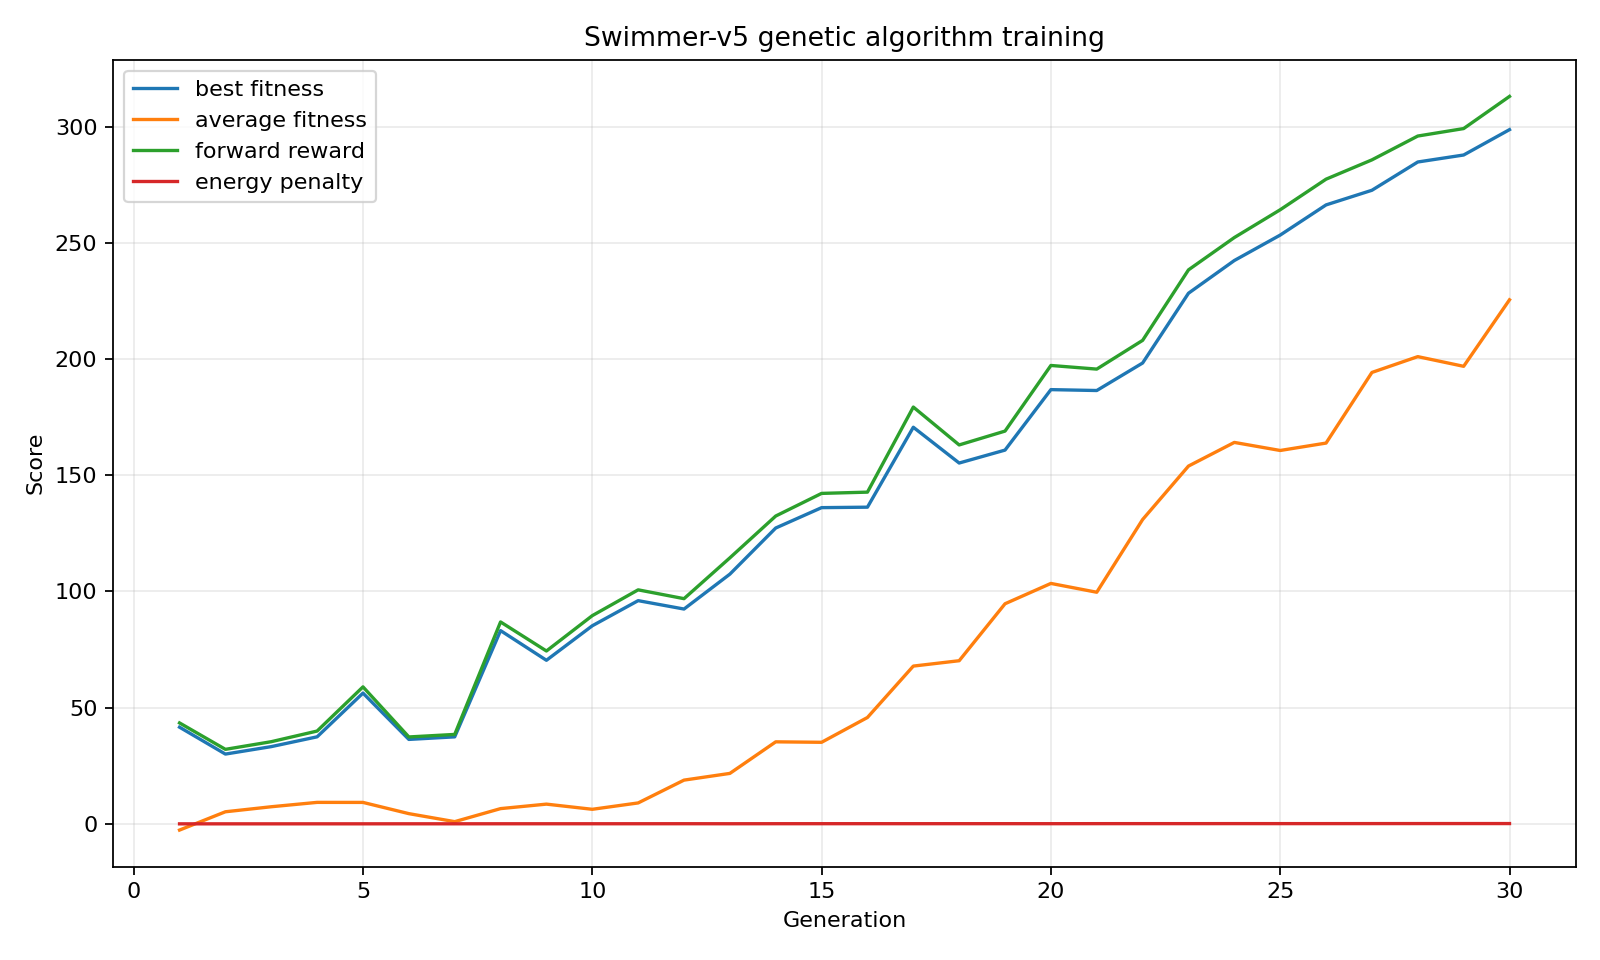
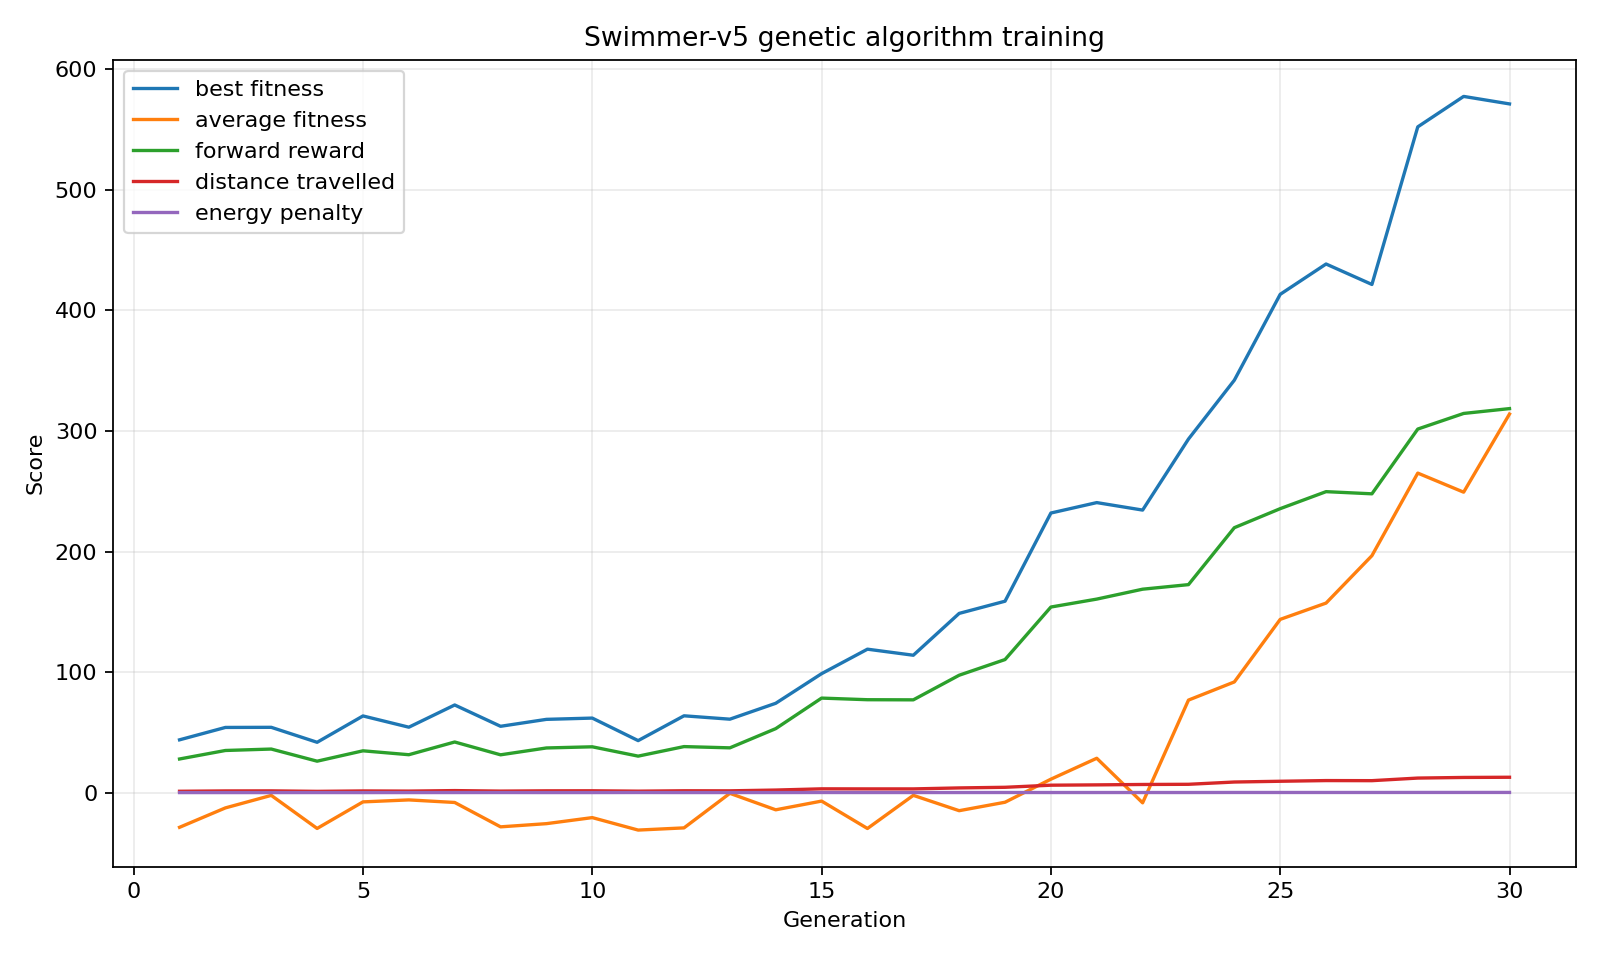
Test to compare with main

diff --git a/swimmer_ga.py b/swimmer_ga.py
@@ -26,6 +26,11 @@ class GAConfig:
     episodes_per_candidate: int = 1
     base_episode_length: int = 200
     curriculum_growth: int = 25
+    forward_reward_weight: float = 3.0
+    distance_reward_weight: float = 2.0
+    energy_penalty_weight: float = 0.15
+    smoothness_penalty_weight: float = 0.05
+    stability_penalty_weight: float = 0.10
     render_best: bool = False
     seed: int | None = None
     output_dir: str = "artifacts"
@@ -47,6 +52,7 @@ class GenomeMLPController(nn.Module):
         self.network = nn.Sequential(*layers)
 
         self.genome_size = sum(parameter.numel() for parameter in self.parameters())
+        self._genome_loaded = False
 
     def random_genome(self, rng: np.random.Generator) -> np.ndarray:
         return rng.normal(0.0, 0.5, size=self.genome_size).astype(np.float32)
@@ -61,9 +67,11 @@ class GenomeMLPController(nn.Module):
                 )
                 parameter.copy_(values)
                 offset += size
+        self._genome_loaded = True
 
-    def act(self, genome: np.ndarray, observation: np.ndarray) -> np.ndarray:
-        self.load_genome(genome)
+    def act(self, observation: np.ndarray) -> np.ndarray:
+        if not self._genome_loaded:
+            raise RuntimeError("Genome not loaded. Call load_genome() before act().")
         observation_tensor = torch.as_tensor(observation, dtype=torch.float32)
         with torch.no_grad():
             action_tensor = torch.tanh(self.network(observation_tensor))
@@ -78,13 +86,29 @@ class EvaluationResult:
     instability_penalty: float
     oscillation_penalty: float
     episode_length: int
+    distance_travelled: float
 
 
 class SwimmerEvaluator:
-    def __init__(self, env_id: str, controller: GenomeMLPController, seed: int | None = None):
+    def __init__(
+        self,
+        env_id: str,
+        controller: GenomeMLPController,
+        seed: int | None = None,
+        forward_reward_weight: float = 3.0,
+        distance_reward_weight: float = 2.0,
+        energy_penalty_weight: float = 0.15,
+        smoothness_penalty_weight: float = 0.05,
+        stability_penalty_weight: float = 0.10,
+    ):
         self.env_id = env_id
         self.controller = controller
         self.seed = seed
+        self.forward_reward_weight = forward_reward_weight
+        self.distance_reward_weight = distance_reward_weight
+        self.energy_penalty_weight = energy_penalty_weight
+        self.smoothness_penalty_weight = smoothness_penalty_weight
+        self.stability_penalty_weight = stability_penalty_weight
 
     def _make_env(self, render_mode: str | None = None):
         return gym.make(self.env_id, render_mode=render_mode)
@@ -100,15 +124,18 @@ class SwimmerEvaluator:
         total_forward = 0.0
         total_energy = 0.0
         total_instability = 0.0
+        total_distance = 0.0
         total_oscillation = 0.0
         total_steps = 0
 
         env = self._make_env(render_mode="human" if render else None)
         try:
+            base_env = env.unwrapped
             for episode_index in range(episodes):
+                self.controller.load_genome(genome)
                 observation, _ = env.reset(seed=None if self.seed is None else self.seed + episode_index)
+                episode_start_x = float(base_env.data.qpos[0])
                 previous_action = np.zeros(env.action_space.shape, dtype=np.float32)
-                previous_velocity = np.zeros(2, dtype=np.float32)
 
                 episode_fitness = 0.0
                 episode_forward = 0.0
@@ -117,29 +144,27 @@ class SwimmerEvaluator:
                 episode_oscillation = 0.0
 
                 for _ in range(episode_length):
-                    action = self.controller.act(genome, observation)
+                    action = self.controller.act(observation)
                     action = np.clip(action, env.action_space.low, env.action_space.high)
 
                     next_observation, _, terminated, truncated, info = env.step(action)
 
                     forward_reward = float(info.get("reward_forward", 0.0))
                     control_penalty = float(-info.get("reward_ctrl", 0.0))
-                    action_delta = float(np.mean(np.abs(action - previous_action)))
-                    velocity_delta = float(abs(info.get("x_velocity", 0.0)) + abs(info.get("y_velocity", 0.0)) - np.sum(np.abs(previous_velocity)))
-                    velocity_delta = abs(velocity_delta)
+                    action_delta = float(np.mean(np.square(action - previous_action)))
+                    vertical_drift = float(abs(info.get("y_position", 0.0)) + 0.5 * abs(info.get("y_velocity", 0.0)))
 
                     episode_forward += forward_reward
                     episode_energy += control_penalty
-                    episode_instability += velocity_delta
+                    episode_instability += vertical_drift
                     episode_oscillation += action_delta
-
-                    episode_fitness += forward_reward
-                    episode_fitness -= 0.25 * control_penalty
-                    episode_fitness -= 0.05 * velocity_delta
-                    episode_fitness -= 0.02 * action_delta
+                    episode_fitness += self.forward_reward_weight * forward_reward
+                    episode_fitness += self.distance_reward_weight * forward_reward * base_env.dt
+                    episode_fitness -= self.energy_penalty_weight * control_penalty
+                    episode_fitness -= self.smoothness_penalty_weight * action_delta
+                    episode_fitness -= self.stability_penalty_weight * vertical_drift
 
                     previous_action = action
-                    previous_velocity = np.array([info.get("x_velocity", 0.0), info.get("y_velocity", 0.0)], dtype=np.float32)
                     observation = next_observation
                     total_steps += 1
 
@@ -148,11 +173,15 @@ class SwimmerEvaluator:
                     if terminated or truncated:
                         break
 
+                episode_distance = float(info["x_position"]) - episode_start_x
+                episode_fitness += self.distance_reward_weight * episode_distance
+
                 total_fitness += episode_fitness
                 total_forward += episode_forward
                 total_energy += episode_energy
                 total_instability += episode_instability
                 total_oscillation += episode_oscillation
+                total_distance += episode_distance
         finally:
             env.close()
 
@@ -164,6 +193,7 @@ class SwimmerEvaluator:
             instability_penalty=total_instability * scale,
             oscillation_penalty=total_oscillation * scale,
             episode_length=total_steps // max(episodes, 1),
+            distance_travelled=total_distance * scale,
         )
 
 
@@ -178,7 +208,16 @@ class GeneticAlgorithmTrainer:
         finally:
             probe_env.close()
         self.controller = GenomeMLPController(obs_dim, action_dim, config.hidden_sizes)
-        self.evaluator = SwimmerEvaluator(config.env_id, self.controller, seed=config.seed)
+        self.evaluator = SwimmerEvaluator(
+            config.env_id,
+            self.controller,
+            seed=config.seed,
+            forward_reward_weight=config.forward_reward_weight,
+            distance_reward_weight=config.distance_reward_weight,
+            energy_penalty_weight=config.energy_penalty_weight,
+            smoothness_penalty_weight=config.smoothness_penalty_weight,
+            stability_penalty_weight=config.stability_penalty_weight,
+        )
         self.population = [self.controller.random_genome(self.rng) for _ in range(config.population_size)]
         self.history = {
             "best_fitness": [],
@@ -187,6 +226,7 @@ class GeneticAlgorithmTrainer:
             "energy_penalty": [],
             "instability_penalty": [],
             "oscillation_penalty": [],
+            "distance_travelled": [],
         }
 
     def _episode_length_for_generation(self, generation: int) -> int:
@@ -261,6 +301,7 @@ class GeneticAlgorithmTrainer:
             self.history["energy_penalty"].append(generation_result.energy_penalty)
             self.history["instability_penalty"].append(generation_result.instability_penalty)
             self.history["oscillation_penalty"].append(generation_result.oscillation_penalty)
+            self.history["distance_travelled"].append(generation_result.distance_travelled)
 
             if generation_best > best_fitness:
                 best_fitness = generation_best
@@ -269,7 +310,8 @@ class GeneticAlgorithmTrainer:
 
             print(
                 f"generation {generation:03d} | best={generation_best:.3f} | avg={generation_mean:.3f} | "
-                f"forward={generation_result.forward_reward:.3f} | energy={generation_result.energy_penalty:.3f}"
+                f"forward={generation_result.forward_reward:.3f} | distance={generation_result.distance_travelled:.3f} | "
+                f"energy={generation_result.energy_penalty:.3f}"
             )
 
             if generation < self.config.generations - 1:
@@ -295,6 +337,7 @@ class GeneticAlgorithmTrainer:
         plt.plot(generations, self.history["best_fitness"], label="best fitness")
         plt.plot(generations, self.history["average_fitness"], label="average fitness")
         plt.plot(generations, self.history["forward_reward"], label="forward reward")
+        plt.plot(generations, self.history["distance_travelled"], label="distance travelled")
         plt.plot(generations, self.history["energy_penalty"], label="energy penalty")
         plt.xlabel("Generation")
         plt.ylabel("Score")
@@ -321,6 +364,11 @@ def parse_args(argv: Iterable[str] | None = None) -> argparse.Namespace:
     parser.add_argument("--crossover-rate", type=float, default=0.9)
     parser.add_argument("--base-episode-length", type=int, default=200)
     parser.add_argument("--curriculum-growth", type=int, default=25)
+    parser.add_argument("--forward-reward-weight", type=float, default=3.0)
+    parser.add_argument("--distance-reward-weight", type=float, default=2.0)
+    parser.add_argument("--energy-penalty-weight", type=float, default=0.15)
+    parser.add_argument("--smoothness-penalty-weight", type=float, default=0.05)
+    parser.add_argument("--stability-penalty-weight", type=float, default=0.10)
     parser.add_argument("--episodes-per-candidate", type=int, default=1)
     parser.add_argument("--render-best", action="store_true")
     parser.add_argument("--seed", type=int, default=None)
@@ -342,6 +390,11 @@ def main(argv: Iterable[str] | None = None) -> None:
         episodes_per_candidate=args.episodes_per_candidate,
         base_episode_length=args.base_episode_length,
         curriculum_growth=args.curriculum_growth,
+        forward_reward_weight=args.forward_reward_weight,
+        distance_reward_weight=args.distance_reward_weight,
+        energy_penalty_weight=args.energy_penalty_weight,
+        smoothness_penalty_weight=args.smoothness_penalty_weight,
+        stability_penalty_weight=args.stability_penalty_weight,
         render_best=args.render_best,
         seed=args.seed,
         output_dir=args.output_dir,

diff --git a/play_best.py b/play_best.py
@@ -58,7 +58,7 @@ def main():
 
         obs, _ = env.reset()
         for step in range(args.steps):
-            action = controller.act(genome, obs)
+            action = controller.act(obs)
             obs, _, terminated, truncated, info = env.step(action)
             if args.render:
                 env.render()
